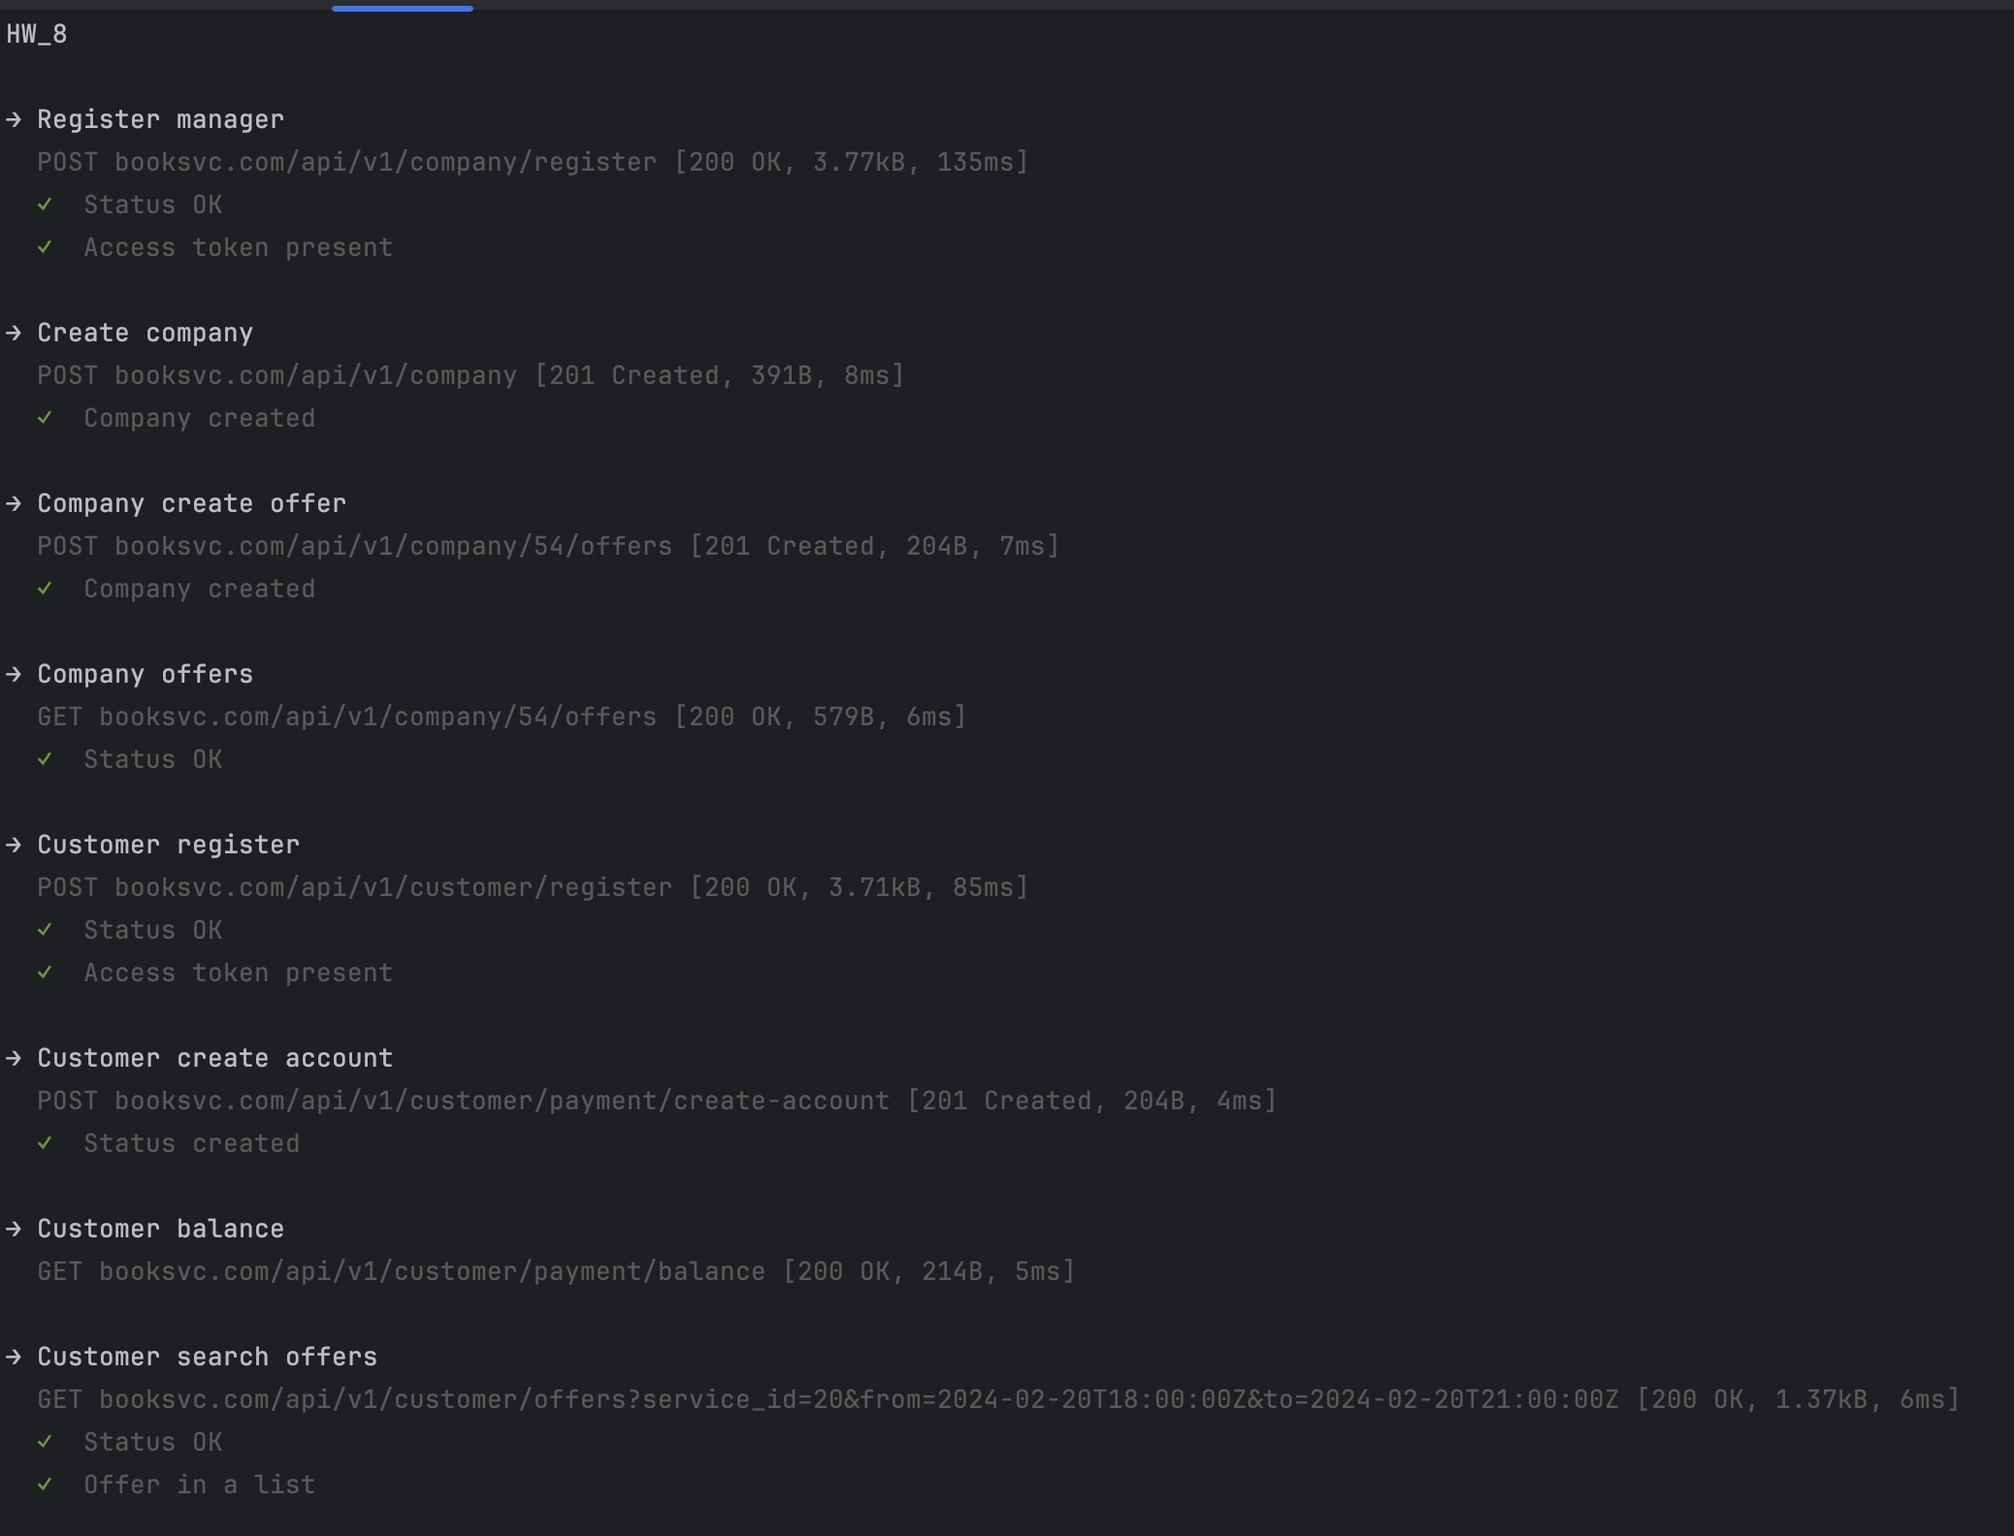
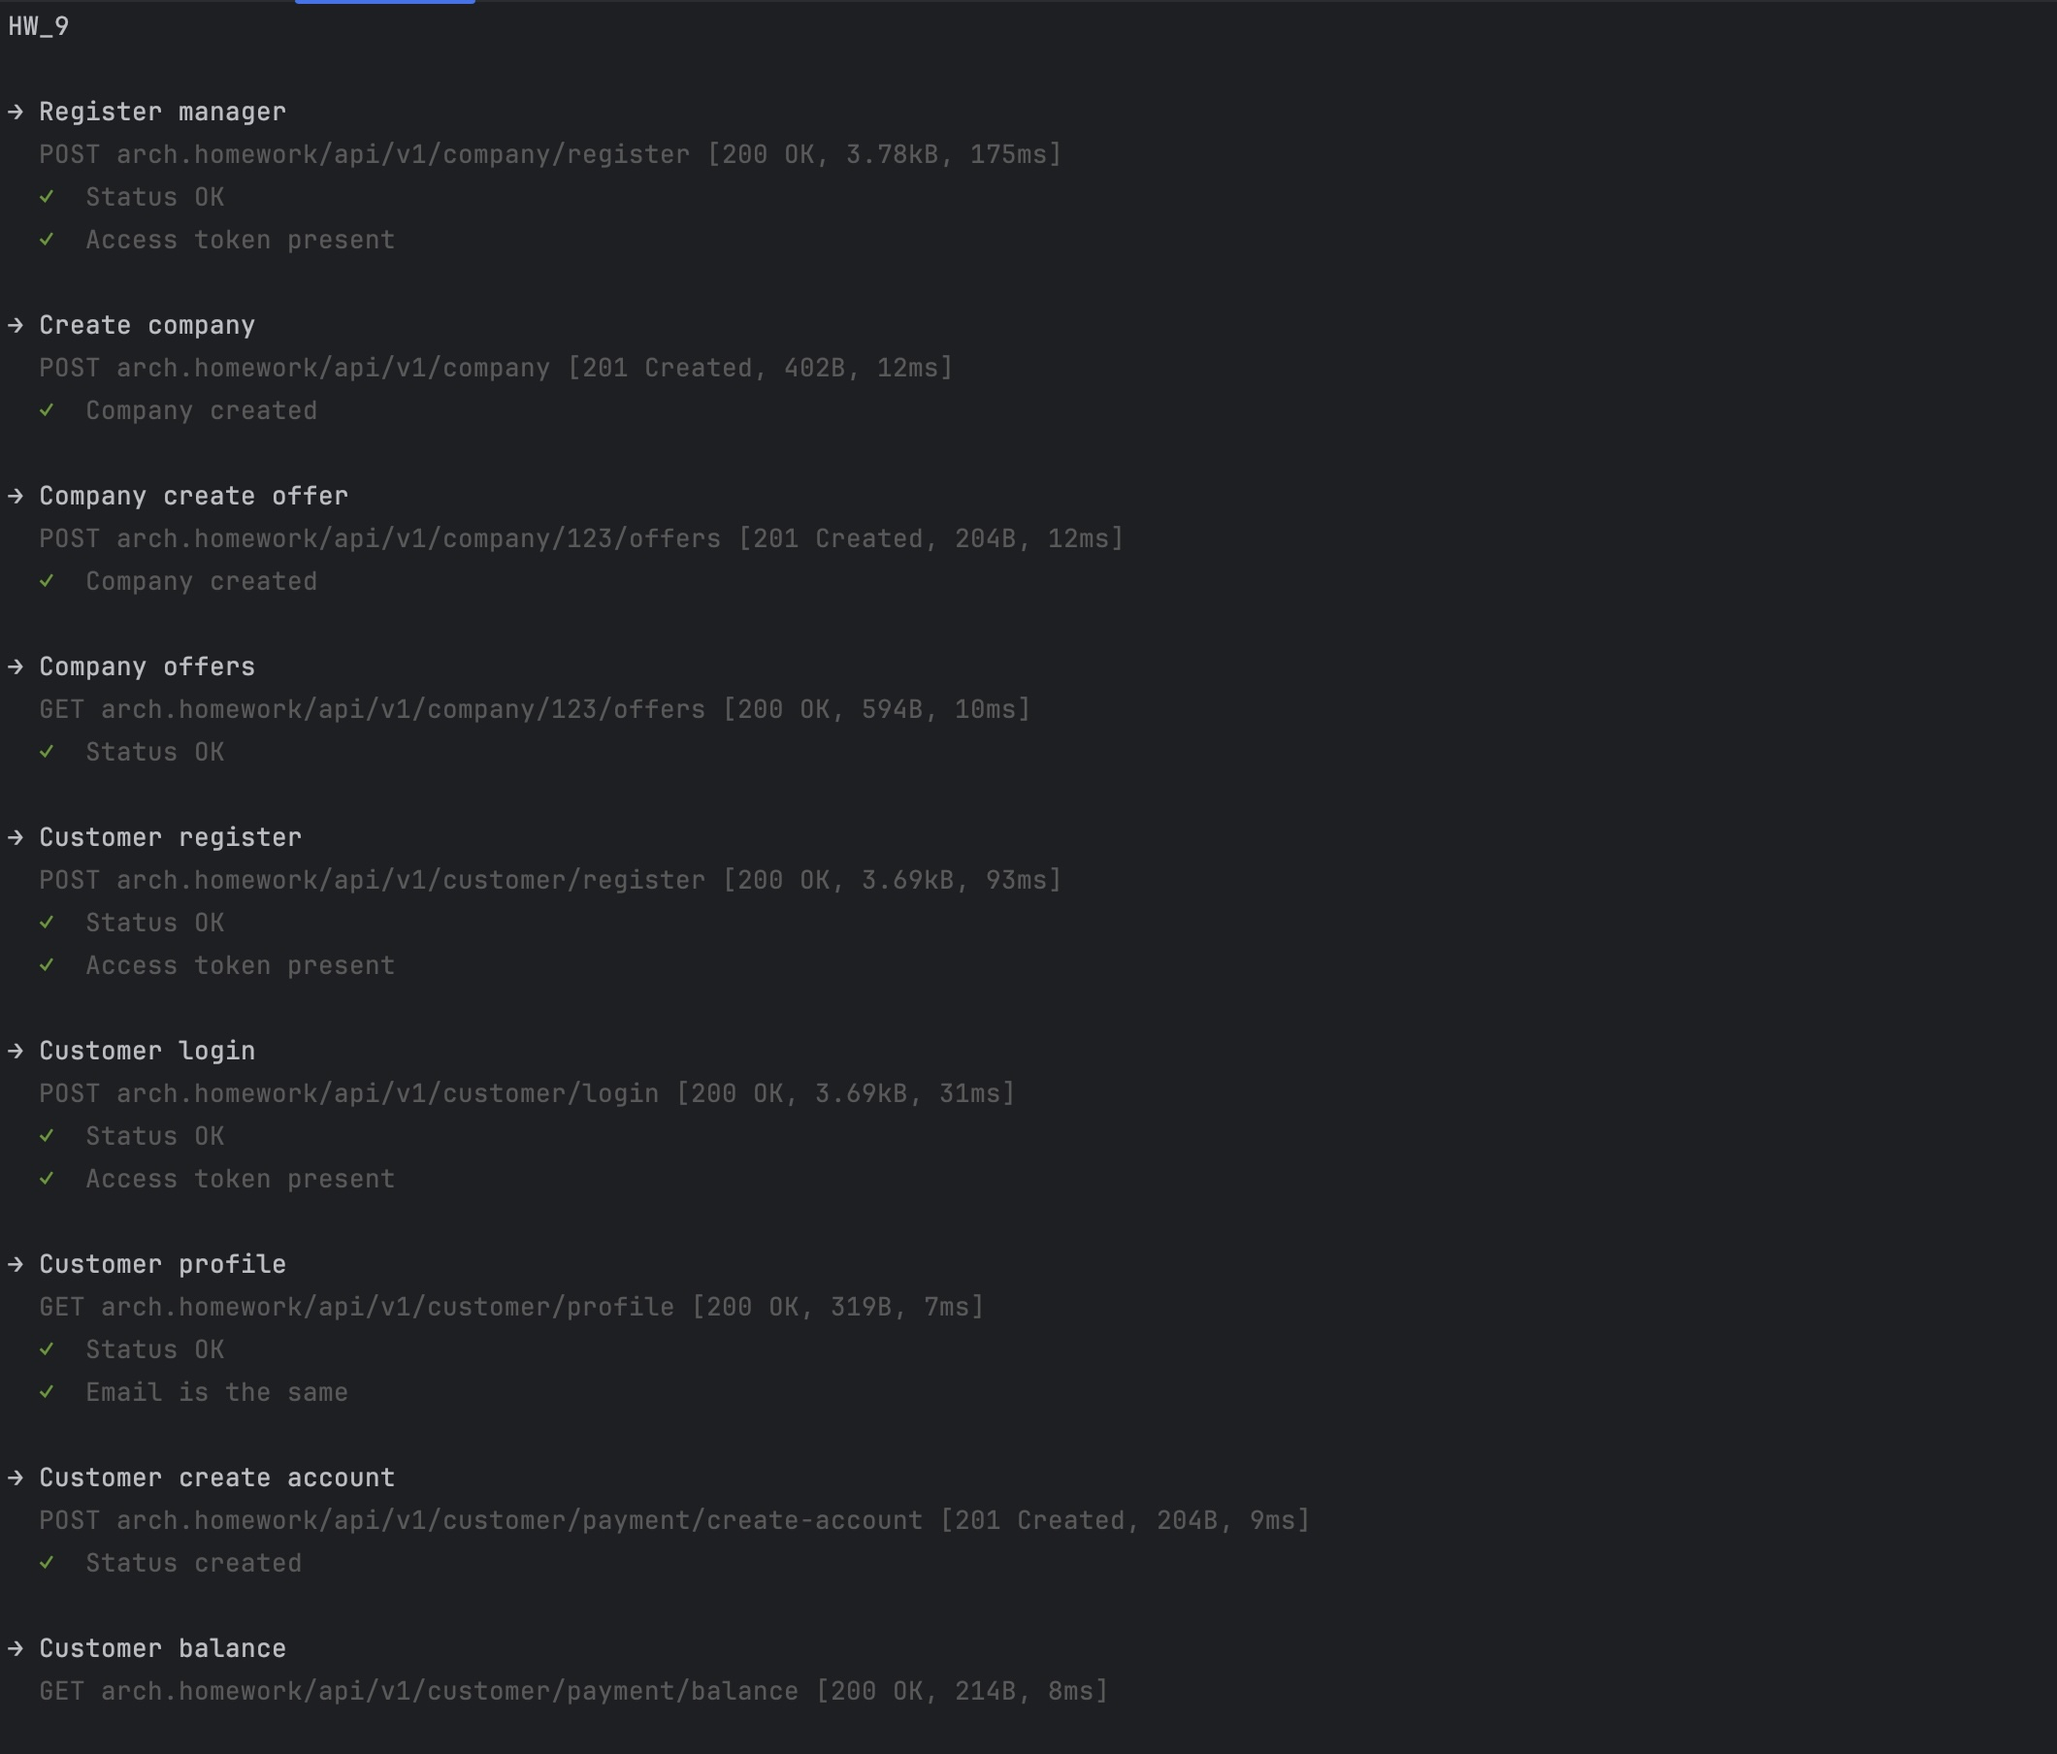
Readme updated

diff --git a/README.md b/README.md
@@ -1,4 +1,7 @@
-# Homework 8 - Реализация распеределнной транзакции на основе саги
+# Homework 9 - Stream processing
+
+*Событийное взаимодействие с использование брокера сообщений для нотификаций (уведомлений)*
+
 ## Сервис бронирования услуг
 
 ### Схема работы
@@ -13,11 +16,15 @@ Pегистрируется новый бизнес-пользователь, с
 - eсли платеж прошел успешно списываются деньги с баланса (микросервис payment), бронь переходит в статус "paid" (микросервис booking), eсли не удалось поменять статус, то платеж отменяется (микросервис payment)
 - если платеж не прошел, то услуга переходит обратно в статус "open" (микросервис booking) и фиксируется неуспешная транзакция (микросервис payment)
 
-Пока что это сага с оркестрацией в микросервисе ``customer``, планирую перевести на хореографию.
+После успешной или неуспешной транзакции отправляется уведомление (микросервис notification)
+
+Сообщение отправляется на почту менеджеру(ам) компании и клиенту.
 
 
+![Mailhog](./mailhog.jpg?raw=true "Tests")
 
-### Описание
+
+### Описание приложения
 
 Содержит микросервисы: 
 - ``company`` 
@@ -27,25 +34,15 @@ Pегистрируется новый бизнес-пользователь, с
 - ``notification``
 
 
-
 `Keycloak` - сервис авторизации
 
 `KrakenD` - API Gateway
 
 `PostgreSQL` - база данных, на каждый сервис своя база.
 
+`Kafka` - брокер сообщений
 
-
-
-
-
-
-
-
-
-
-
-
+`MailHog` - почтовый сервер-заглушка для тестирования
 
 
 
@@ -71,6 +68,7 @@ Pегистрируется новый бизнес-пользователь, с
 
 ![Tests](./newman/screen1.jpg?raw=true "Tests")
 ![Tests](./newman/screen2.jpg?raw=true "Tests")
+![Tests](./newman/screen3.jpg?raw=true "Tests")
 
 
 
